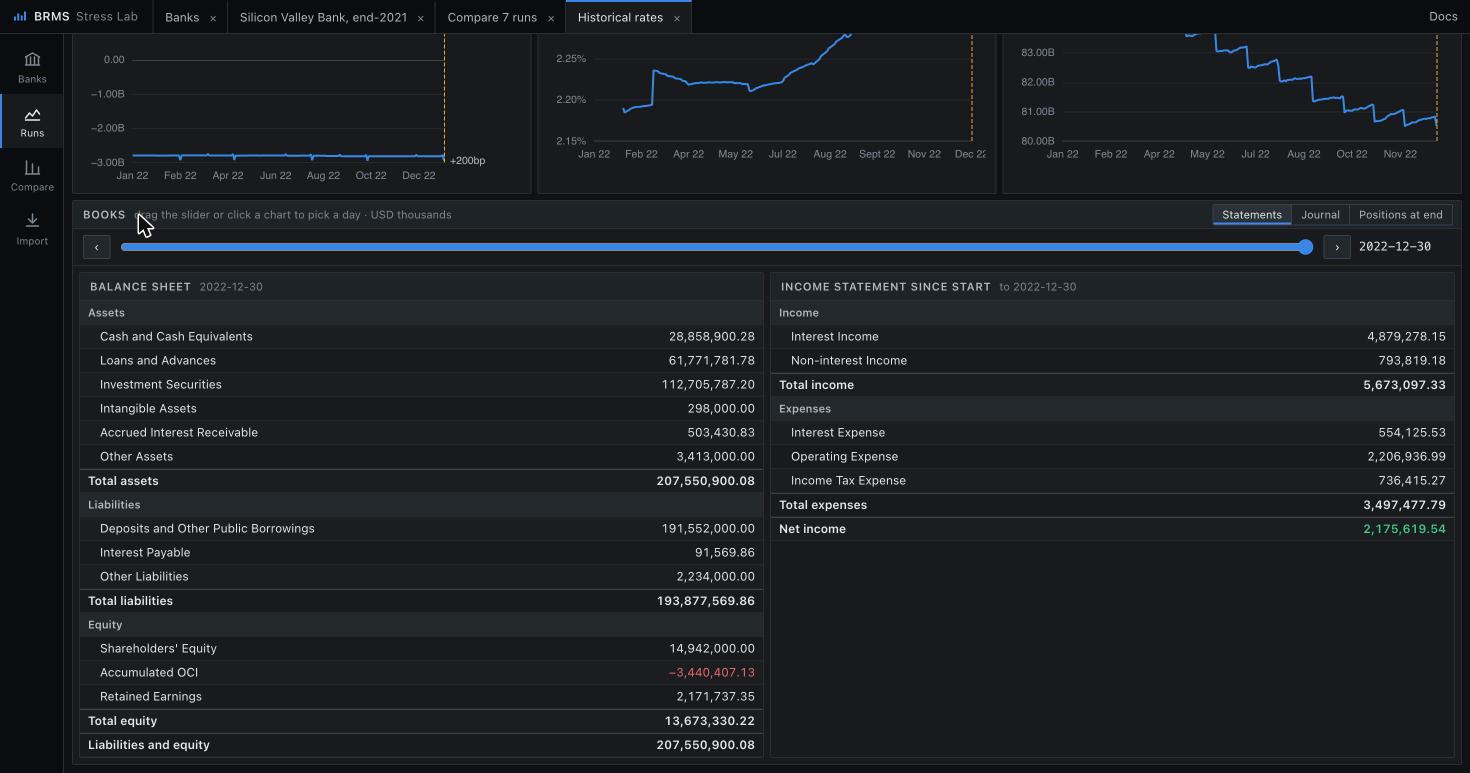
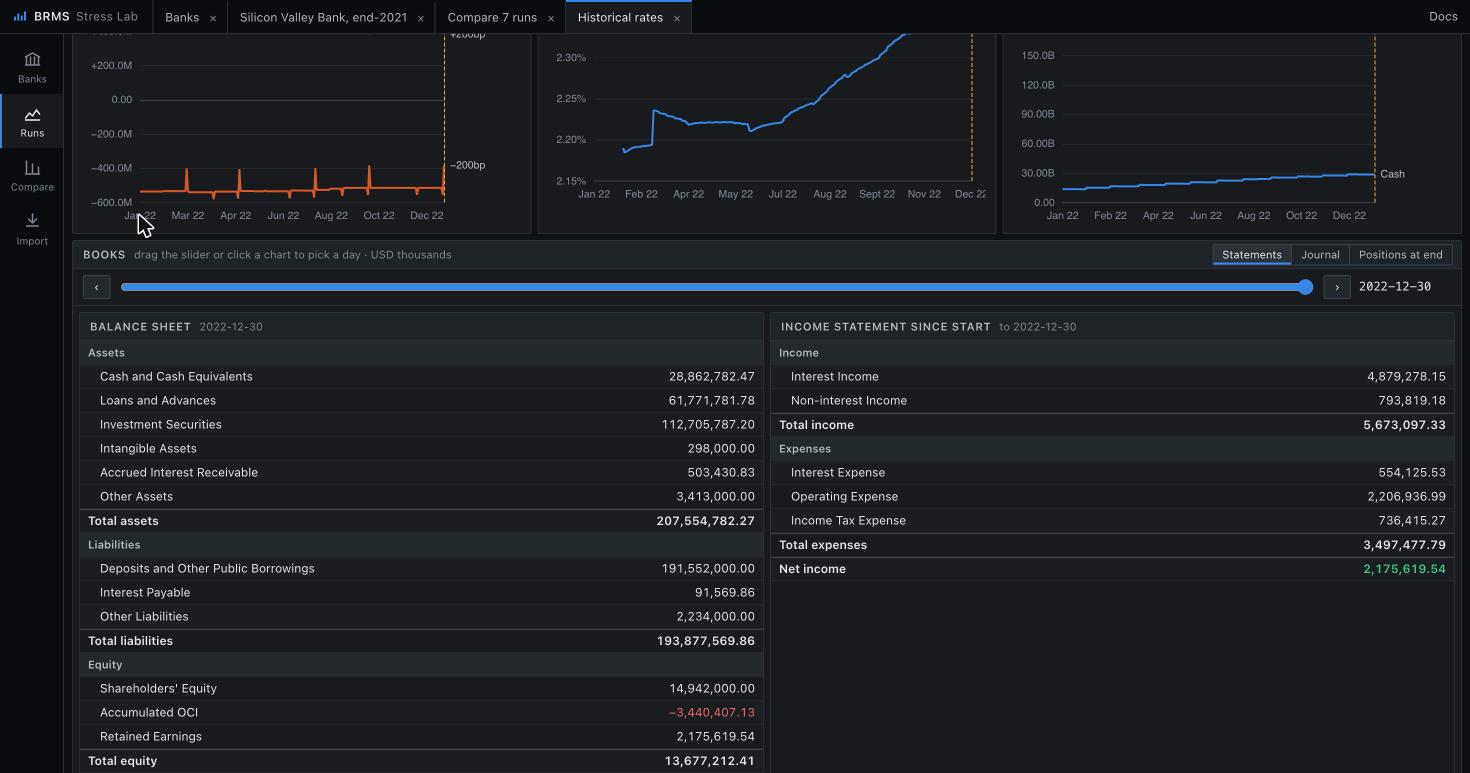
fix: NII sensitivity weighted by exact time to repricing; refreshed screenshots
Each repricing amount earns the shock for 1 - t of the year with t its
exact time to repricing, not its bucket's midpoint, so monthly floaters
no longer make the series jump between buckets around reset dates.
Cash-and-funding chart label shortened; screenshots refreshed for the
new panels and core-deposit EVE figures.

diff --git a/src/brms/web/static/js/views/run.js b/src/brms/web/static/js/views/run.js
@@ -153,7 +153,7 @@ function dashboard(data) {
       const funding = composition.liabilities["Deposits and Other Public Borrowings"];
       if (!cash) return unavailable(box, "Not available");
       const series = [{ name: "Cash", values: cash }];
-      if (funding) series.push({ name: "Deposits and borrowings", values: funding });
+      if (funding) series.push({ name: "Funding", values: funding });
       return lineChart(box, { dates, zero: true, format: (v) => money(v), series });
     }, { note: "below zero: funding the bank would need" }),
   );

diff --git a/tests/core/metrics/risk/test_maturity_gap.py b/tests/core/metrics/risk/test_maturity_gap.py
@@ -7,6 +7,8 @@ import datetime
 from decimal import Decimal
 from unittest.mock import MagicMock
 
+import pytest
+
 from brms.core.enums import BookType, InstrumentType, MeasurementBasis, PositionSide
 from brms.core.metrics.risk.interest_rate_risk.maturity_gap import MaturityGapModel, MaturityGapResult
 from brms.core.models.position import Position
@@ -128,7 +130,7 @@ def test_deposit_short_is_rsl() -> None:
 
 
 def test_delta_nii_computation() -> None:
-    """ΔNII = gap * ΔR * (1 - bucket midpoint) within one year, 0 beyond it."""
+    """ΔNII = amount * ΔR * (1 - years to repricing) within one year, 0 beyond it."""
     as_of = datetime.date(2024, 1, 4)
     near = _make_instrument("bond-1", InstrumentType.FIXED_RATE_BOND, datetime.date(2024, 5, 4))  # 3M-6M
     far = _make_instrument("bond-2", InstrumentType.FIXED_RATE_BOND, datetime.date(2028, 1, 4))  # 3Y-4Y
@@ -144,8 +146,9 @@ def test_delta_nii_computation() -> None:
     model = MaturityGapModel()
     result = model.compute(bank, as_of, MagicMock(get=MagicMock(return_value=Decimal("1000000"))))
 
-    assert abs(result.delta_nii_up[3] - 1000000 * 0.02 * (1 - 0.375)) < 0.01
-    assert abs(result.delta_nii_down[3] - 1000000 * -0.02 * (1 - 0.375)) < 0.01
+    t = (datetime.date(2024, 5, 4) - as_of).days / 365.25
+    assert abs(result.delta_nii_up[3] - 1000000 * 0.02 * (1 - t)) < 0.01
+    assert abs(result.delta_nii_down[3] - 1000000 * -0.02 * (1 - t)) < 0.01
     assert result.delta_nii_up[9] == 0
 
 
@@ -172,3 +175,19 @@ def test_variable_rate_loan_in_short_bucket() -> None:
     assert result.rsa[1] == 10_000_000.0
     assert result.rsa[0] == 0.0
     assert result.total_rsa == 10_000_000.0
+
+
+def test_nii_sensitivity_moves_by_a_month_on_a_reset_date() -> None:
+    """On its reset date a monthly floater's next repricing moves a month out: its weight drops by a month's worth."""
+    loan = _make_instrument("l", InstrumentType.VARIABLE_RATE_LOAN, datetime.date(2029, 1, 2))
+    pos = _make_position("pos-l", "l", BookType.BANKING, PositionSide.LONG, 10_000_000)
+    bank = MagicMock()
+    bank.positions.open_positions.return_value = [pos]
+    bank.instruments.get.return_value = loan
+    store = MagicMock(get=MagicMock(return_value=Decimal(10_000_000)))
+    before, on = datetime.date(2024, 3, 31), datetime.date(2024, 4, 1)
+    loan.repricing_date.return_value = on
+    eve = MaturityGapModel().compute(bank, before, store).total_delta_nii_up
+    loan.repricing_date.return_value = datetime.date(2024, 5, 1)
+    day = MaturityGapModel().compute(bank, on, store).total_delta_nii_up
+    assert eve - day == pytest.approx(10_000_000 * 0.02 * 29 / 365.25, rel=1e-9)  # 1 day to go, then 30

diff --git a/src/brms/core/metrics/risk/interest_rate_risk/maturity_gap.py b/src/brms/core/metrics/risk/interest_rate_risk/maturity_gap.py
@@ -69,6 +69,8 @@ class MaturityGapModel:
 
         rsa = [0.0] * len(IRRBB_BUCKETS)
         rsl = [0.0] * len(IRRBB_BUCKETS)
+        # Each amount repricing in t years earns (or pays) the shock for the rest of the year, 1 - t.
+        nii_exposure = [0.0] * len(IRRBB_BUCKETS)
 
         for position in bank.positions.open_positions():
             if position.book_type != BookType.BANKING:
@@ -90,10 +92,12 @@ class MaturityGapModel:
 
             value = _repricing_amount(position, instrument, date, valuation_store)
 
-            if position.side == PositionSide.LONG:
+            sign = 1.0 if position.side == PositionSide.LONG else -1.0
+            if sign > 0:
                 rsa[bucket_idx] += value
             else:
                 rsl[bucket_idx] += value
+            nii_exposure[bucket_idx] += sign * value * max(0.0, 1.0 - remaining_years)
 
         # Compute derived columns
         gap = [rsa[i] - rsl[i] for i in range(len(IRRBB_BUCKETS))]
@@ -102,11 +106,10 @@ class MaturityGapModel:
         for g in gap:
             running += g
             cumulative_gap.append(running)
-        # A gap repricing at the bucket midpoint m earns the shock for the rest of the year, (1 - m);
-        # buckets repricing after one year do not affect 12-month NII.
-        exposure = [max(0.0, 1.0 - b.midpoint) for b in IRRBB_BUCKETS]
-        delta_nii_up = [g * _PARALLEL_SHOCK * w for g, w in zip(gap, exposure, strict=True)]
-        delta_nii_down = [g * -_PARALLEL_SHOCK * w for g, w in zip(gap, exposure, strict=True)]
+        # Weighted by each item's exact time to repricing (not the bucket midpoint), so a floater's
+        # contribution does not jump on its reset date; items repricing after a year contribute nothing.
+        delta_nii_up = [e * _PARALLEL_SHOCK for e in nii_exposure]
+        delta_nii_down = [e * -_PARALLEL_SHOCK for e in nii_exposure]
 
         return MaturityGapResult(
             rsa=rsa,

diff --git a/tests/core/metrics/test_irrbb.py b/tests/core/metrics/test_irrbb.py
@@ -118,5 +118,6 @@ def test_nii_sensitivity_weights_by_time_in_year() -> None:
     result = MaturityGapModel().compute(sim.bank, _DAY, sim.valuation_store)
     index = next(i for i, b in enumerate(result.buckets) if b.label.startswith("9M"))
     near_cv = float(sim.valuation_store.get("pos-N", _DAY, ValuationType.CARRYING_VALUE))
-    assert result.delta_nii_up[index] == pytest.approx(near_cv * 0.02 * (1 - 0.875))  # noqa: S101
+    t = (near.maturity_date - _DAY).days / 365.25
+    assert result.delta_nii_up[index] == pytest.approx(near_cv * 0.02 * (1 - t))  # noqa: S101
     assert all(v == 0 for b, v in zip(result.buckets, result.delta_nii_up, strict=True) if b.midpoint >= 1)  # noqa: S101

diff --git a/docs/lab/tutorials/bank-file.md b/docs/lab/tutorials/bank-file.md
@@ -154,16 +154,16 @@ Output of the command line:
 
 ```
 scenario            CET1 end  CET1 min   dEVE/T1     net income
-historical            18.00%    15.88%   -69.98%     18,091,207
-parallel_up           18.12%    15.88%   -44.32%     19,417,565
-steepener             17.72%    15.88%   -51.87%     15,047,752
+historical            18.01%    15.89%   -70.42%     18,091,207
+parallel_up           18.13%    15.88%   -44.70%     19,417,565
+steepener             17.73%    15.89%   -52.28%     15,047,752
 ```
 
 Riverside starts with a CET1 ratio of 15.9% and builds capital through the year. Its economic value
 is still very exposed: 30-year mortgages and 28-year MBS funded by deposits, of which only the core
 part offsets the loss. The worst ΔEVE (−70%) is on the first day of the historical run, at the low
 rates of January 2022, when long fixed-rate assets are most sensitive. Under the +200bp shock the
-bank starts from higher rates, so the same Basel shocks cost less (−44%). By the end of 2022 both
+bank starts from higher rates, so the same Basel shocks cost less (−45%). By the end of 2022 both
 runs are at about −35%. See [assumptions](../guides/assumptions.md#deposits).
 
 ## When something is wrong

diff --git a/docs/lab/guides/reading-results.md b/docs/lab/guides/reading-results.md
@@ -39,7 +39,7 @@ Every chart covers the run day by day. Hover for exact values; click to choose t
 | **Asset duration** | Effective duration of the bond and loan book in years: how far its value moves for a 1% rate change |
 | **NII sensitivity, 12 months** | Change in the next year's net interest income if rates move ±200bp, from the repricing gap |
 | **Net interest margin** | Interest income less interest expense over interest-earning assets, trailing year, annualised (needs 30 days) |
-| **Cash and funding** | Cash against deposits and borrowings: with a liquidity stress, cash below zero is the funding the bank would need |
+| **Cash and funding** | Cash against funding (deposits and borrowings): with a liquidity stress, cash below zero is the funding the bank would need |
 
 ## Books
 

diff --git a/docs/lab/tutorials/basel-shocks.md b/docs/lab/tutorials/basel-shocks.md
@@ -61,9 +61,9 @@ its bank:
 
 | Bank | Lowest CET1 ratio | Worst ΔEVE / Tier 1 | HTM unrealised | AFS unrealised |
 |---|---:|---:|---:|---:|
-| Signature Bank | **8.4%** | −21% | −$0.4bn | −$1.5bn |
-| Silicon Valley Bank | 12.2% | **−54%** | −$10.3bn | −$2.8bn |
-| JPMorgan Chase Bank | 13.6% | −12% | −$28.4bn | −$23.3bn |
+| Signature Bank | **8.4%** | −20% | −$0.4bn | −$1.5bn |
+| Silicon Valley Bank | 12.2% | **−55%** | −$10.3bn | −$2.8bn |
+| JPMorgan Chase Bank | 13.6% | −10% | −$28.4bn | −$23.3bn |
 | First Republic Bank | 14.5% | −42% | −$3.4bn | −$0.7bn |
 
 How to read it:
